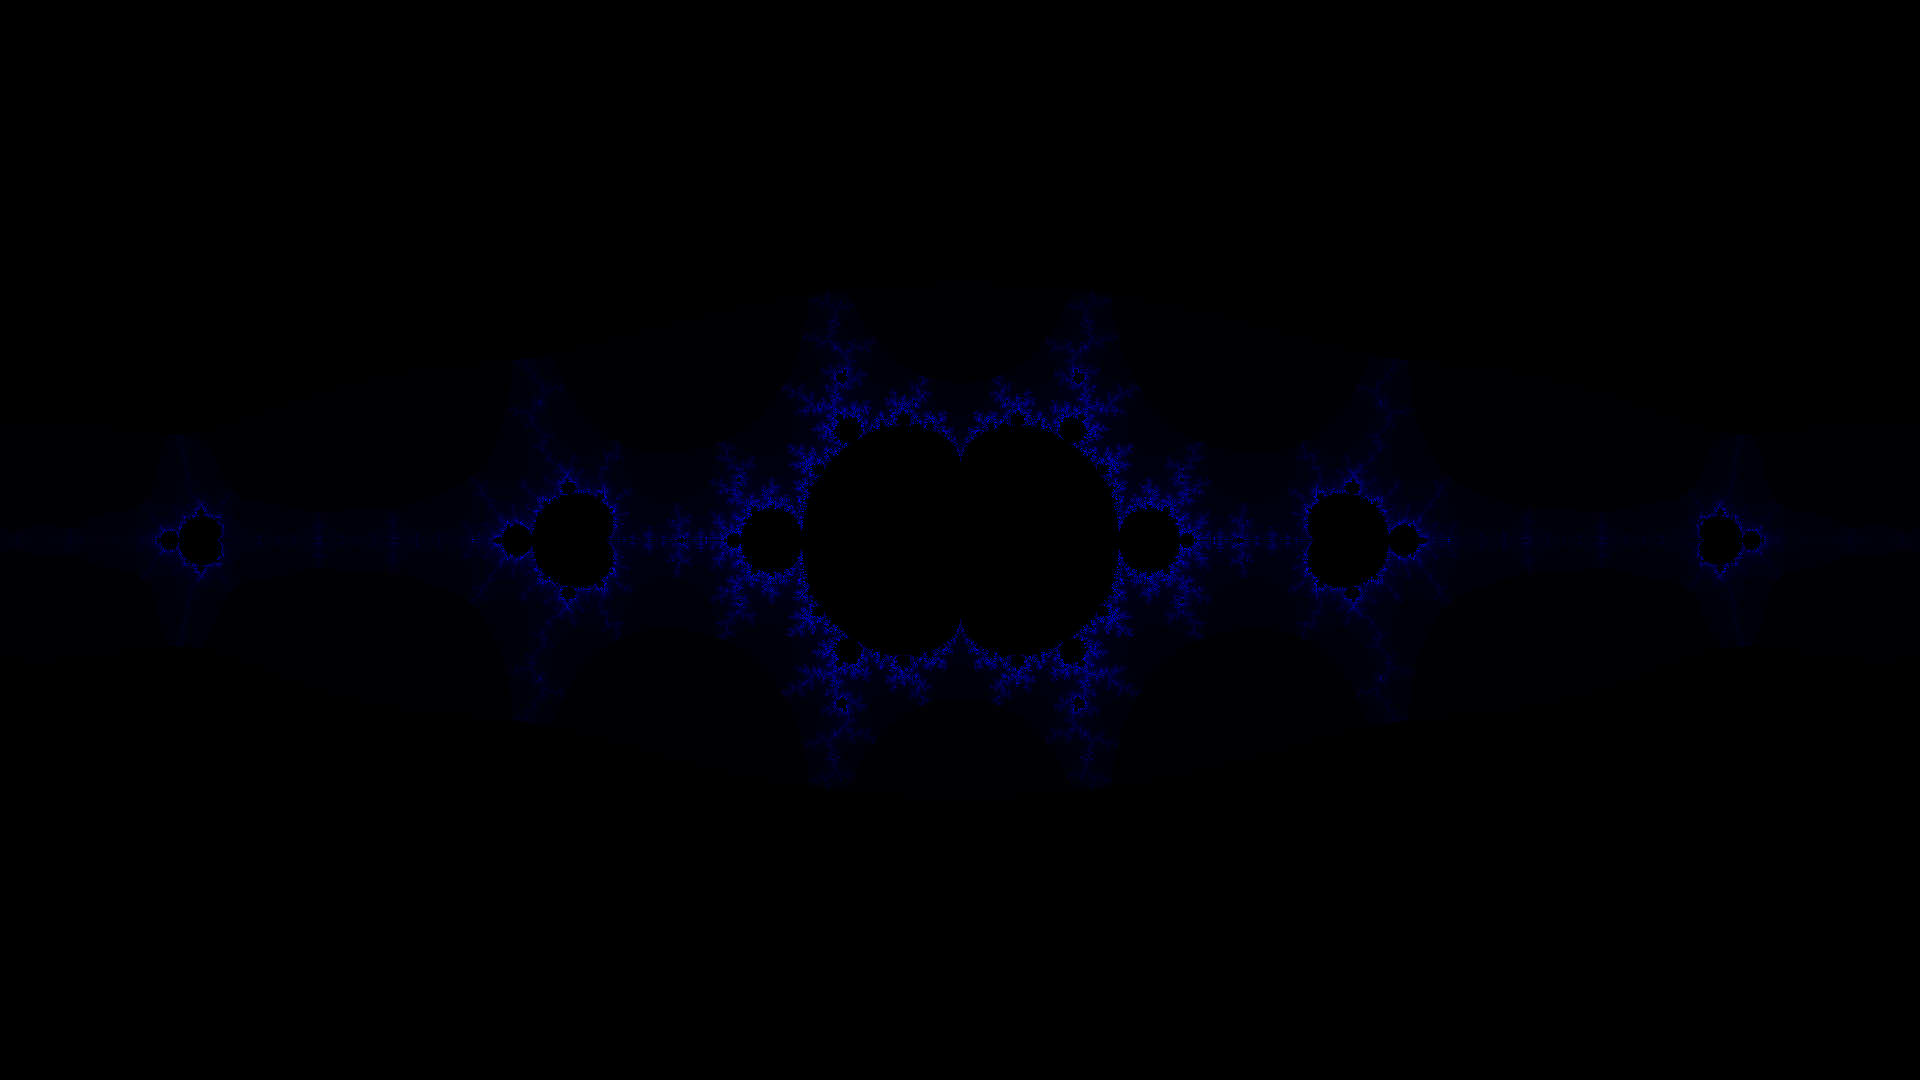
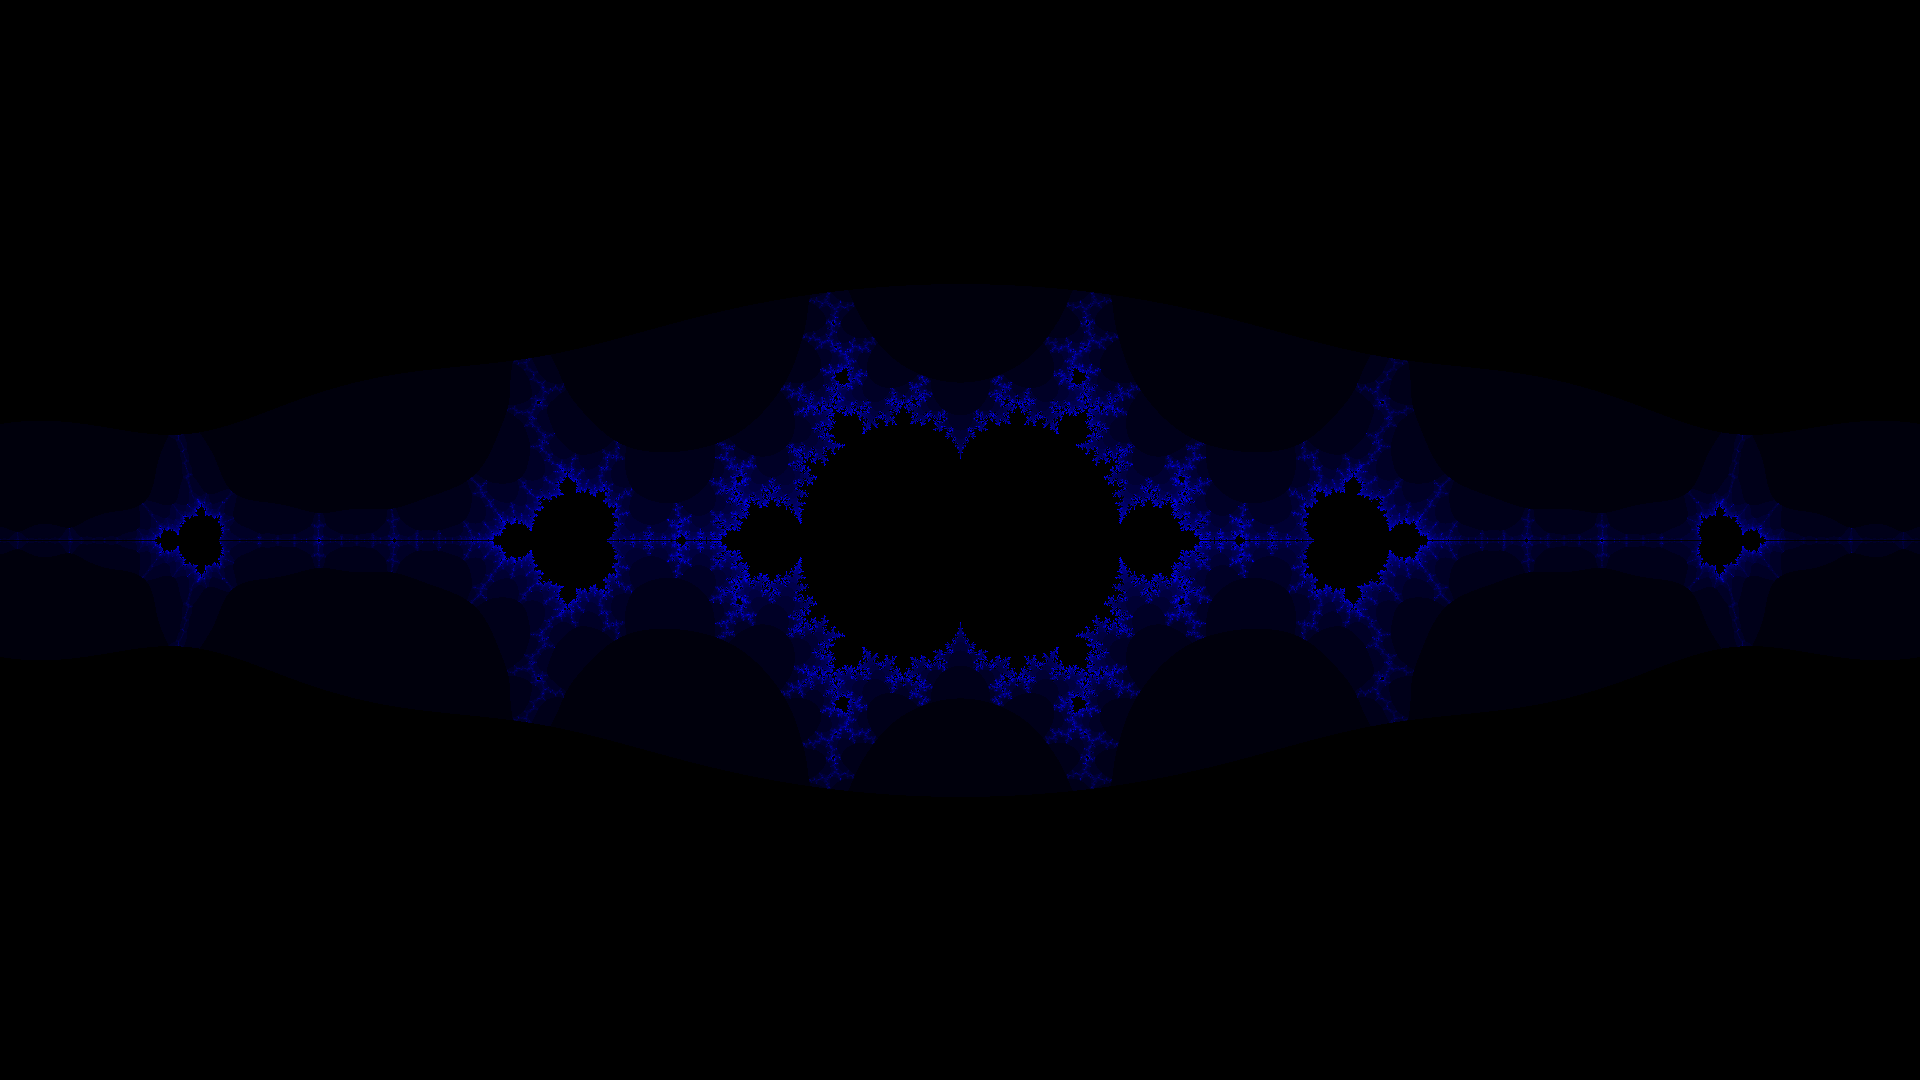
lower down the number of step for checking a point
the accuracy is still good enough thus we get better performance
anothere bonus is that we can easier see which points move faster to
infinity

Changed region(s): [[0.0625, 0.275, 0.9375, 0.7333], [0.7188, 0.3667, 0.75, 0.3972], [0.25, 0.3667, 0.2812, 0.3972]]

diff --git a/src/main/Program.java b/src/main/Program.java
@@ -14,7 +14,7 @@ import org.apache.commons.math3.complex.Complex;
 
 public class Program {
 	//How many iterations till we conclude if the point is in the fractal set
-	static final int maxStepCount=50; //TODO check how much should it be
+	static final int maxStepCount=20; //TODO check how much should it be
 	//How much is the distance threshold which when passed we conclude that the point isn't in the fractal set
 	//It is calculated automatically to fit the whole real rectangle to be rendered on the output image
 	static double threshHoldRadius; 
